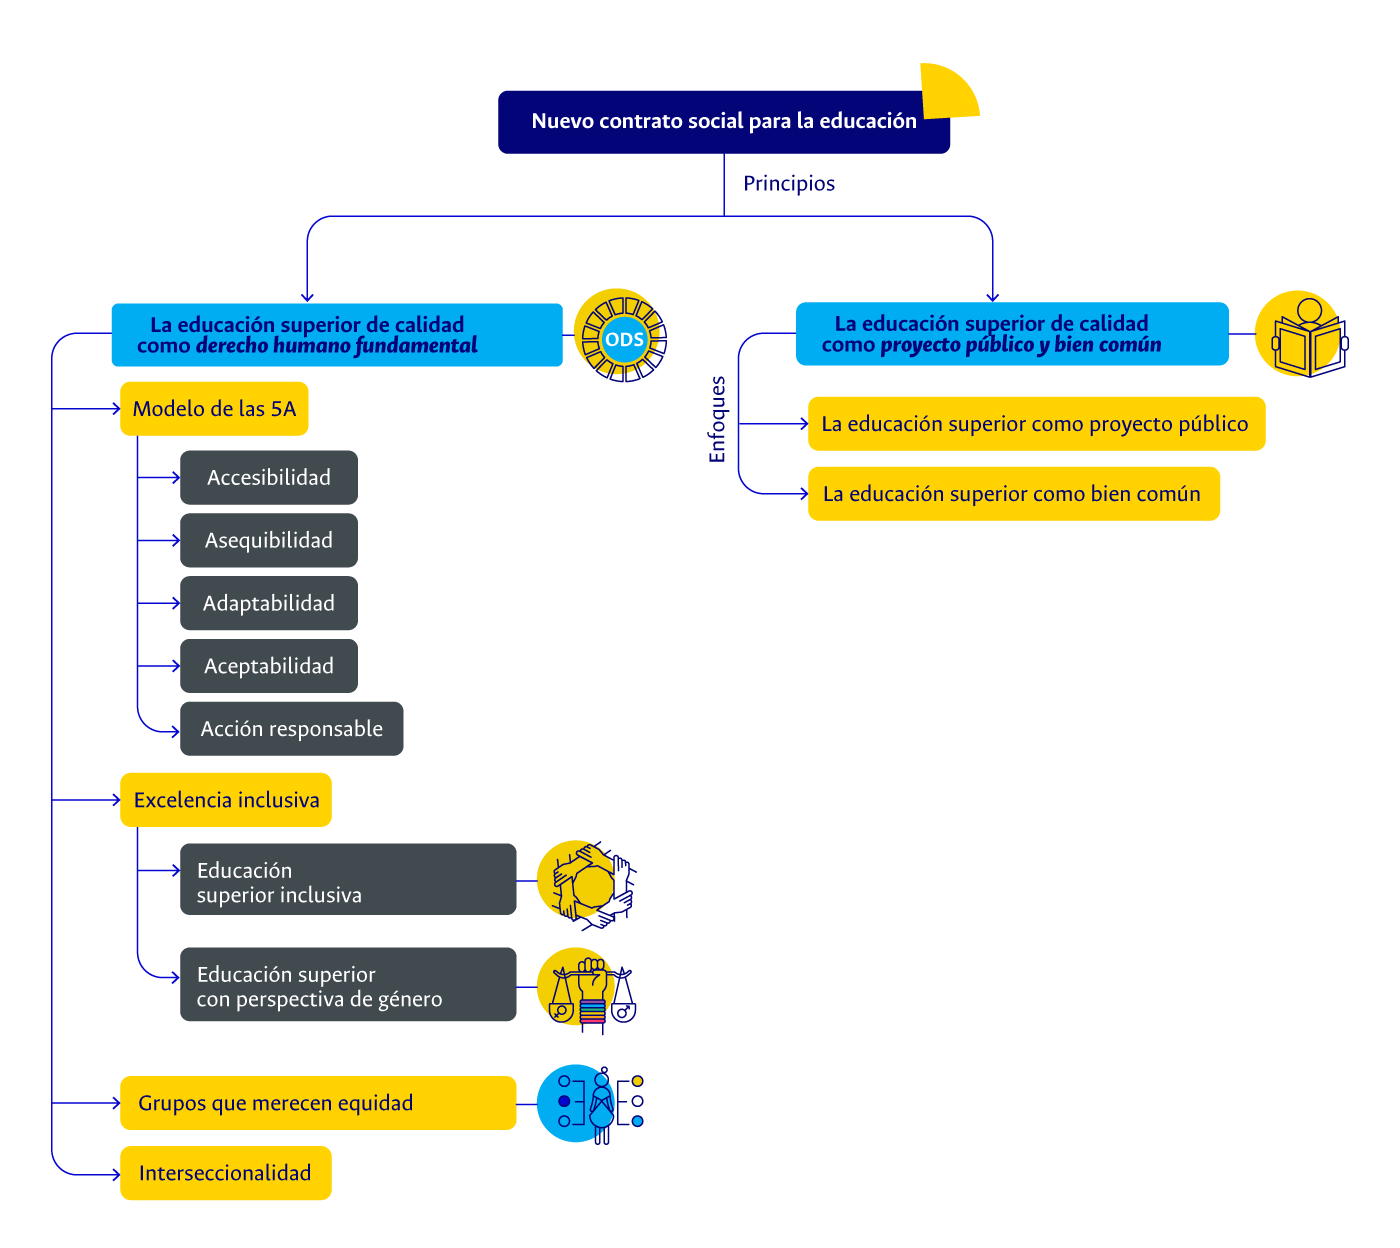
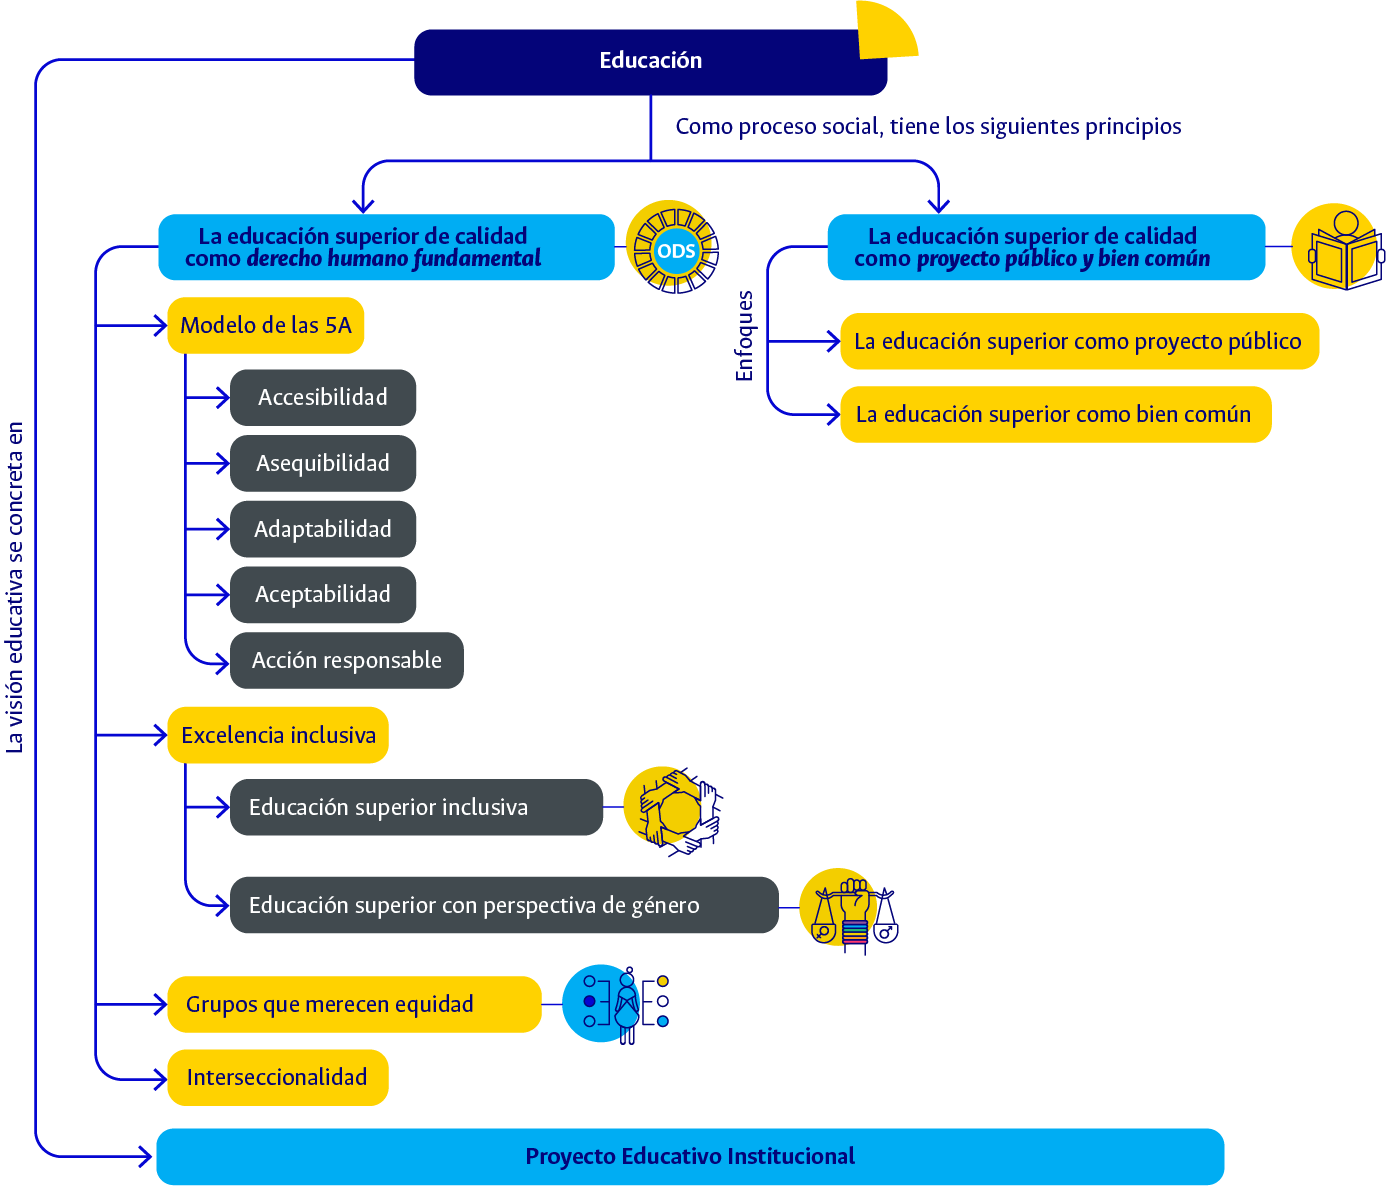
docencia-universitaria
Se realizan ajustes en página HTML

diff --git a/docencia-universitaria/styles.css b/docencia-universitaria/styles.css
@@ -267,39 +267,39 @@ li {
 
 
 #esc1-btn1 {
-    top: 24.6%;
-    left: 35.7%;
+    top: 18.6%;
+    left: 39.7%;
     width: 3.8%;
 }
 
 #esc1-btn2 {
-    top: 68.1%;
-    left: 31.9%;
+    top: 65.6%;
+    left: 38.5%;
     width: 4.7%;
 }
 
 #esc1-btn3 {
-    top: 76.6%;
-    left: 31.9%;
+    top: 73.9%;
+    left: 51%;
     width: 4.7%;
 }
 
 #esc1-btn4 {
-    top: 86.1%;
-    left: 31.9%;
+    top: 82.3%;
+    left: 34%;
     width: 4.7%;
 }
 
 #esc1-btn5 {
-    top: 24.6%;
-    left: 83.2%;
+    top: 94.9%;
+    left: 64.2%;
     width: 4.7%;
 }
 
 
 #esc2-btn1 {
-    top: 30.6%;
-    left: 20.8%;
+    top: 13.9%;
+    left: 50.8%;
     width: 3.8%;
 }
 
@@ -541,8 +541,8 @@ li {
     border-radius: 10px;
 }
 
-.flex-videos{
-        justify-content: center;
+.flex-videos {
+    justify-content: center;
 }
 
 [data-tooltip] {
@@ -602,14 +602,14 @@ li {
     opacity: 1;
 }
 
-.modal-creditos .modal-header{
+.modal-creditos .modal-header {
     border-bottom: unset;
 }
 
-.modal-creditos .modal-footer{
+.modal-creditos .modal-footer {
     border-top: unset;
 }
 
-.modal-creditos .modal-body{
+.modal-creditos .modal-body {
     color: var(--azul);
 }

diff --git a/docencia-universitaria/index.html b/docencia-universitaria/index.html
@@ -320,6 +320,7 @@
                                 contextos educativos, le invitamos a expresar su propia definición y comprensión acerca
                                 de la didáctica: ¿qué es la didáctica? y ¿para qué sirve la didáctica?</p>
                             <img class="img-900" src="assets/22.png" alt="">
+                            <img class="img-1100" src="assets/30.jpg" alt="">
                             </a>
                         </div>
                     </div>
